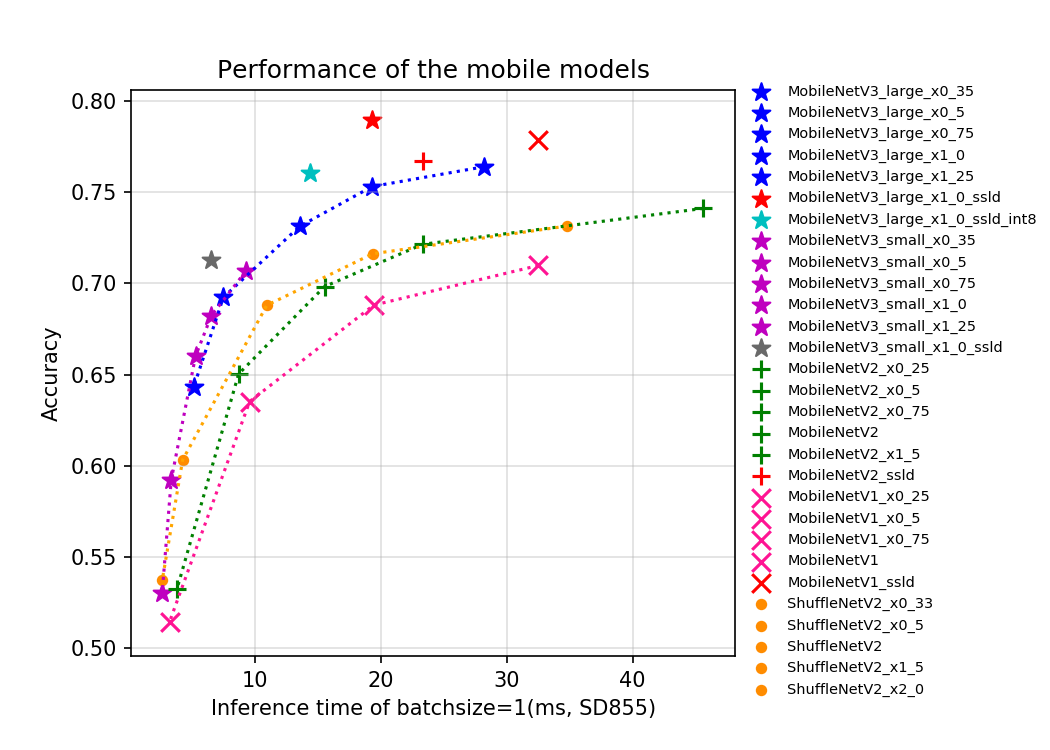
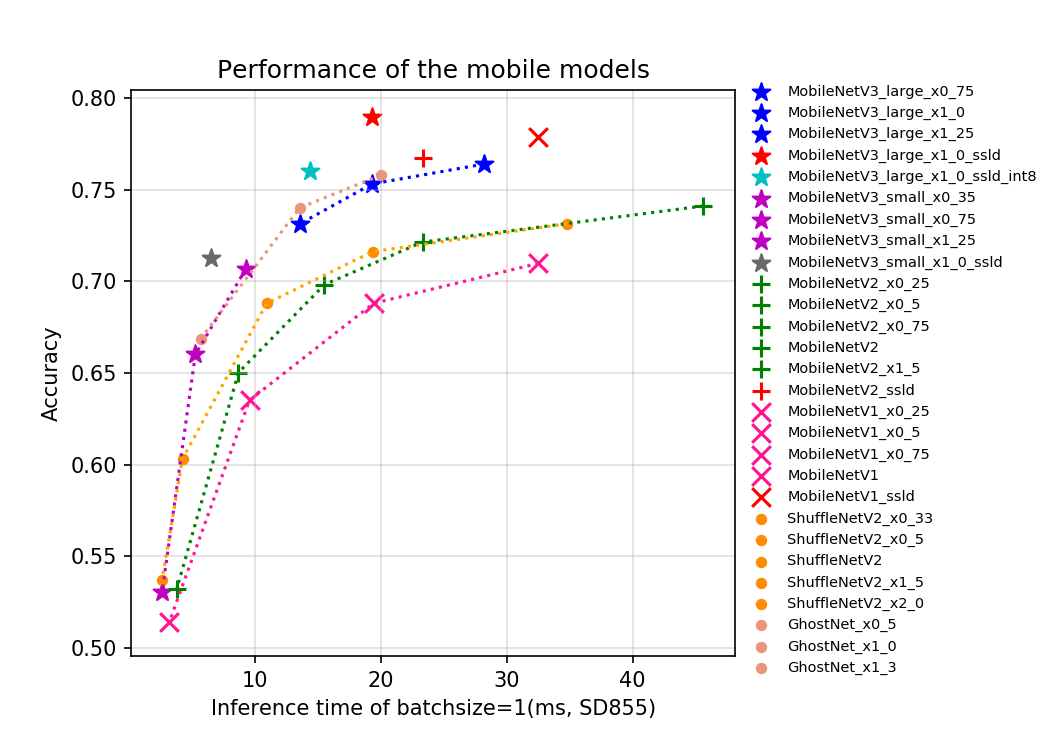
add ghostnet metrics

diff --git a/docs/en/models/Mobile_en.md b/docs/en/models/Mobile_en.md
@@ -99,6 +99,9 @@ Currently there are 32 pretrained models of the mobile series open source by Pad
 | ShuffleNetV2_x1_5                    | 19.352           | 14.000          |
 | ShuffleNetV2_x2_0                    | 34.770           | 28.000          |
 | ShuffleNetV2_swish                   | 16.023           | 9.100           |
+| GhostNet_x0_5                   | 5.714           | 10.000           |
+| GhostNet_x1_0                   | 13.558           | 20.000           |
+| GhostNet_x1_3                   | 19.982           | 29.000           |
 
 
 ## Inference speed based on T4 GPU
